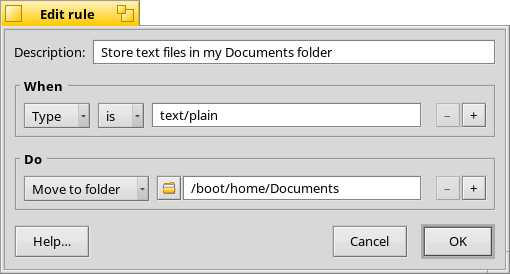
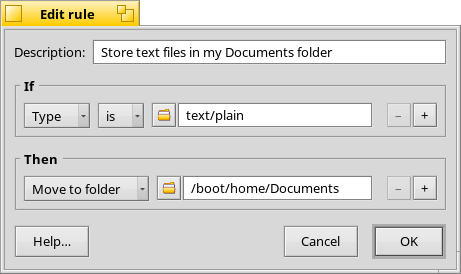
Update documentation
Renaming "When... Do" to "If... Then". More common expression, as
suggested by phoudoin.

diff --git a/documentation/User Documentation.html b/documentation/User Documentation.html
@@ -154,7 +154,7 @@ ul {
 </div>
 <p>You can either <span class="button">Skip</span> the move/copy of the file or <span class="button">Replace</span> the existing file. In case there are similar conflicts for the rest of the currently running Filer job, you can decide to <span class="button">Do this for all files</span> by ticking the checkbox before making your decision.<br />
 Note, the state of the checkbox is only valid for the current Filer job. If <i>Filer</i> (or <i>AutoFiler</i>) is triggered at some later time and a conflict with an existing file occurs again, you are once more presented with this conflict window.</p>
-<p>To decide if the file at the target folder should be replaced or the move/copy operation skipped instead, the modified date and the size of the file in the source and target folders are displayed beneath their paths.<br />
+<p>To decide if the file at the target folder should be replaced or the move/copy operation skipped instead, the size and the modified date of the file in the source and target folders are displayed beneath their paths.<br />
 Left-click a path to open the file's parent folder in a Tracker window, where  the file in the target folder can be renamed or moved elsewhere.<br />
 A right-click on a path offers a context menu with an item <span class="menu">Open file</span>, which opens the file in its preferred application. Very useful when comparing source and target images, for example.</p>
 <p><br /></p>

diff --git a/sources/RuleEditWindow.cpp b/sources/RuleEditWindow.cpp
@@ -44,11 +44,11 @@ RuleEditWindow::RuleEditWindow(BRect frame, FilerRule* rule, BHandler* caller)
 
 	// Set up the tests group and associated buttons
 	fTestGroup = new BBox("whengroup");
-	fTestGroup->SetLabel(B_TRANSLATE("When"));
+	fTestGroup->SetLabel(B_TRANSLATE("If"));
 
 	// Set up the actions group and associated buttons
 	fActionGroup = new BBox("dogroup");
-	fActionGroup->SetLabel(B_TRANSLATE("Do"));
+	fActionGroup->SetLabel(B_TRANSLATE("Then"));
 
 	fOK = new BButton("okbutton", B_TRANSLATE("OK"), new BMessage(MSG_OK));
 	// calling AddChild later to ensure proper keyboard navigation
